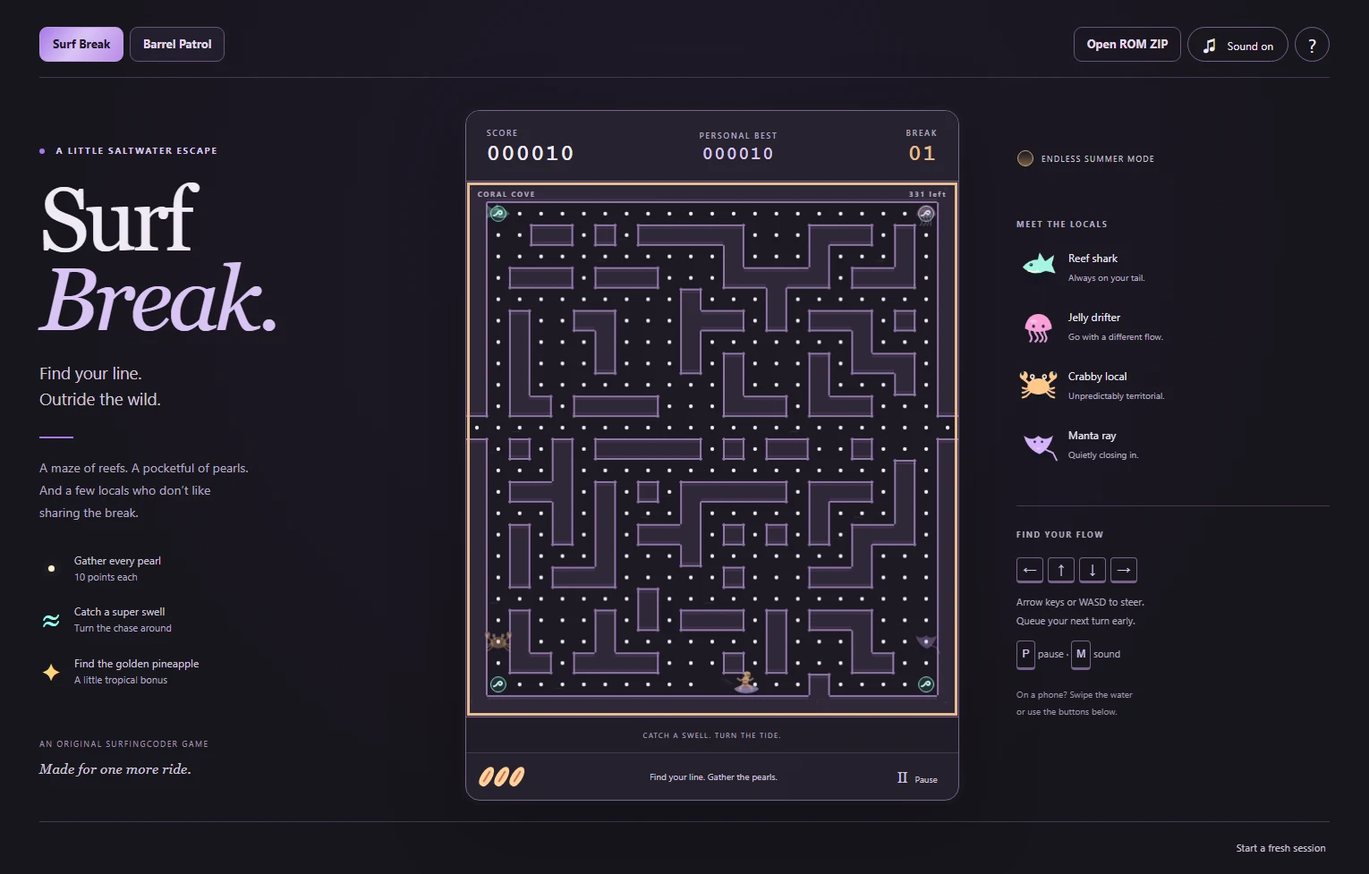
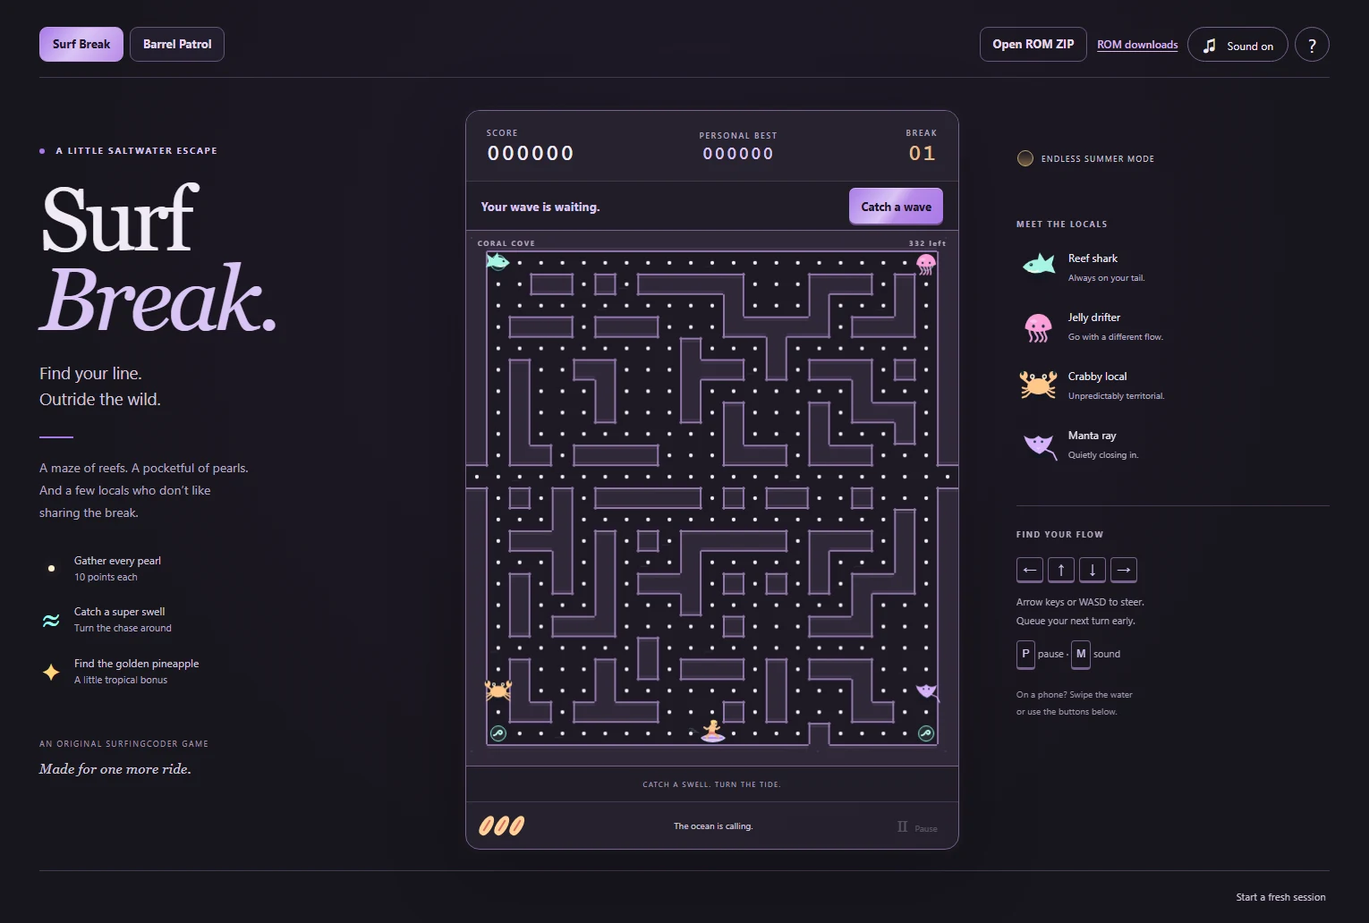
Keep Surf Break’s maze visible before the ride

diff --git a/surf-break/style.css b/surf-break/style.css
@@ -1,19 +1,48 @@
 :root{color-scheme:dark;font-family:Arial,Helvetica,sans-serif;color:#f0eaf6;background:#18161e;font-synthesis:none;--mint:#d9c4f5;--muted:#b5a9c2;--gold:#e7bd8b}
-*{box-sizing:border-box}body{margin:0;min-height:100vh;background:radial-gradient(ellipse at 50% 30%,#39244940,transparent 65%),#18161e}button,a{-webkit-tap-highlight-color:transparent}button{font:inherit;cursor:pointer}button:focus-visible,a:focus-visible,canvas:focus-visible{outline:3px solid #e7bd8b;outline-offset:4px}button{touch-action:manipulation}a{color:inherit;text-decoration:none}.shell{max-width:1530px;margin:auto;padding:25px 44px 18px}.icon-button{background:transparent;border:1px solid #79618e;border-radius:50%;height:39px;width:39px;color:#f0eaf6;font-size:21px}#sound{border-radius:30px;width:auto;padding:0 16px;font-size:20px}.icon-button span{font-size:12px;margin-left:7px;vertical-align:2px}.game-layout{display:grid;grid-template-columns:minmax(190px,1fr) minmax(0,clamp(310px,calc(92dvh - 279px),552px)) minmax(185px,.85fr);gap:clamp(25px,4.2vw,70px);align-items:start;margin:29px auto 0}.intro{padding-top:36px}.eyebrow{font-size:10px;font-weight:bold;letter-spacing:1.7px;color:#d9c4f5;line-height:1.8}.eyebrow>span{display:inline-block;width:6px;height:6px;background:#a879e8;border-radius:50%;margin-right:8px}h1{font-family:Georgia,'Times New Roman',serif;font-size:clamp(65px,6.6vw,100px);font-weight:400;line-height:.89;letter-spacing:-5px;margin:24px 0 23px}h1 em{font-weight:400;color:var(--mint)}.tagline{font-size:19px;line-height:1.55;letter-spacing:-.25px;color:#d0c4da;margin:0}.intro-rule{width:38px;height:2px;background:#a879e8;margin:27px 0 20px}.intro-copy{font-size:14px;line-height:1.8;color:var(--muted);max-width:240px}.legend{display:grid;gap:20px;margin-top:32px}.legend>div{display:flex;align-items:center;gap:13px;font-size:12px;line-height:1.5;color:#d0c4da}.legend small{display:block;font-size:11px;color:#b5a9c2;margin-top:2px}.legend-dot{width:26px;flex-shrink:0;text-align:center}.legend-dot.pearl:before{content:'';display:block;width:7px;height:7px;border-radius:50%;background:#fff0cb;box-shadow:0 0 13px #ffe4a344;margin:auto}.legend-dot.swell{font-family:Georgia,serif;color:#95fff0;font-size:36px;line-height:20px}.legend-dot.fruit{font-size:27px;color:#ffd47b}.credit{margin-top:52px;color:#a296ae;font-size:9px;letter-spacing:1.4px;line-height:1.9}.credit span{display:block;letter-spacing:.3px;font-family:Georgia,serif;font-style:italic;font-size:15px;color:#d0c4da;margin-top:6px}.cabinet{width:100%;min-width:0;border:1px solid #79618e;border-radius:16px;overflow:hidden;background:#27222f;box-shadow:0 25px 85px #0004,0 0 0 5px #211d2880}.scorebar{display:flex;justify-content:space-between;align-items:center;padding:18px 23px 17px;background:#27222f;gap:10px}.scorebar>div{min-width:75px}.scorebar span{display:block;font-size:9px;letter-spacing:1.6px;color:#b5a9c2;font-weight:600}.scorebar strong{font-size:25px;font-family:'Courier New',monospace;letter-spacing:1.5px;font-weight:600;display:block;margin-top:6px;line-height:1}.scorebar .best{text-align:center}.scorebar .best strong{color:#d9c4f5;font-size:20px}.scorebar .level{text-align:right;min-width:40px}.scorebar .level strong{color:#e7bd8b}.ocean-frame{position:relative;border-block:1px solid #79618e;background:#1d1924}#ocean{display:block;width:100%;height:auto;aspect-ratio:23 / 25;touch-action:none;outline-offset:-4px!important}.scene-label{position:absolute;left:13px;right:13px;top:8px;display:flex;justify-content:space-between;pointer-events:none;color:#b5a9c2;font-size:8px;letter-spacing:1.6px;font-weight:bold}.overlay{position:absolute;inset:0;display:flex;align-items:center;justify-content:center;background:#18161e8c;backdrop-filter:blur(2px);z-index:2}.overlay[hidden]{display:none}.overlay-card{width:85%;max-width:370px;text-align:center;padding:25px 20px 29px;background:linear-gradient(145deg,#302739f5,#24202cfa);border:1px solid #79618eaa;border-radius:18px;box-shadow:0 20px 70px #09070d88}.wave-mark{color:#d9c4f5;font-size:72px;line-height:35px;font-family:Georgia,serif;transform:rotate(-8deg);margin:7px 0 22px}.overlay-card>p:first-of-type{font-size:9px;letter-spacing:2.2px;color:#d9c4f5;font-weight:bold}.overlay h2{font-family:Georgia,serif;font-size:49px;font-weight:400;line-height:1.05;letter-spacing:-1.5px;margin:20px 0;color:#f0eaf6}.overlay-card>p:nth-of-type(2){font-size:13px;line-height:1.85;color:#d0c4da;margin-bottom:24px}.play-button{border:0;background:#d9c4f5;color:#1d1427;border-radius:7px;font-size:14px;font-weight:700;padding:15px 26px;box-shadow:0 4px 0 #8662a7;transition:transform .15s,background .15s}.play-button:hover{background:#eddcff;transform:translateY(-1px)}.play-button span{font-size:11px;margin-left:16px}.overlay-card>span{display:block;font-size:8px;letter-spacing:1.4px;color:#b5a9c2;margin-top:24px}.statusbar{display:flex;align-items:center;justify-content:space-between;gap:8px;padding:13px 17px;min-height:52px}.lives{display:flex;gap:5px;min-width:60px}.board-life{width:12px;height:24px;display:block;background:#ffd198;border-radius:55% 55% 45% 45%;transform:rotate(32deg);position:relative}.board-life:after{content:'';position:absolute;left:5px;top:5px;bottom:5px;width:2px;background:#d46c5e}.board-life.lost{opacity:.15}.status{font-size:10px;color:#d0c4da;text-align:center}.pause-button{border:0;background:none;color:#d0c4da;font-size:18px;white-space:nowrap}.pause-button span{font-size:10px;margin-left:3px}.pause-button:disabled{opacity:.3;cursor:default}.power-strip{position:absolute;left:14px;right:14px;bottom:8px;display:flex;align-items:center;gap:10px;padding:9px 12px;border:1px solid #8af4e070;border-radius:5px;background:#27222fe8;color:#acffdf;z-index:1;font-size:9px;letter-spacing:1px}.power-strip[hidden]{display:none}.power-strip>div{height:4px;flex:1;background:#44394f;overflow:hidden;border-radius:3px}.power-strip i{display:block;height:100%;background:#bdf5ba;transition:width .1s linear}.power-strip strong{font-size:12px;min-width:18px}.ride-notes{padding-top:37px}.session-tag{font-size:9px;letter-spacing:1.2px;color:#d0c4da;display:flex;align-items:center;gap:9px}.sun{height:18px;width:18px;border:1px solid #bfa86f;border-radius:50%;background:linear-gradient(0deg,#d4a96a80,transparent)}.locals{margin-top:50px}.section-label{font-size:9px;font-weight:bold;letter-spacing:1.6px;color:#b5a9c2;display:block;margin-bottom:20px}.local{display:flex;align-items:center;gap:9px;margin-bottom:19px}.portrait{width:49px;height:44px;flex-shrink:0}.local strong{font-size:12px;font-weight:400;color:#f0eaf6}.local p{font-size:10px;color:#b5a9c2;margin:6px 0}.controls-note{margin-top:44px;border-top:1px solid #44394f;padding-top:25px}.controls-note p{font-size:11px;line-height:1.9;color:#b5a9c2}.keycaps{display:flex;gap:5px}kbd{font-family:Arial,sans-serif;display:inline-block;border:1px solid #79618e;border-bottom-width:3px;border-radius:4px;min-width:21px;padding:3px 5px;text-align:center;color:#d9c4f5;font-size:12px}.keycaps kbd{font-size:15px;width:30px;height:29px}.controls-note .small-note{font-size:10px;color:#a296ae;margin-top:18px}.session-footer{display:flex;justify-content:flex-end;align-items:center;margin-top:23px;border-top:1px solid #44394f;padding-top:17px;color:#b5a9c2;font-size:8px;letter-spacing:1.5px}.text-button{background:none;border:0;color:#d0c4da;font-size:11px;padding:4px;letter-spacing:.2px}.text-button:hover{color:#d9c4f5}.touch-controls{display:none;justify-content:center;align-items:center;gap:13px;padding:14px;border-top:1px solid #44394f;touch-action:none}.touch-controls>div{display:flex;gap:8px}.touch-controls button{height:44px;width:52px;border:1px solid #79618e;border-radius:9px;background:#302839;color:#f0eaf6;font-size:24px}.touch-controls button:active{background:#352b43}dialog{max-width:450px;width:calc(100% - 36px);background:#211d28;color:#d0c4da;border:1px solid #79618e;border-radius:16px;padding:32px;box-shadow:0 20px 90px #0008}dialog::backdrop{background:#120e19d9;backdrop-filter:blur(5px)}dialog h2{font:38px Georgia,serif;color:#f0eaf6;margin:14px 0}dialog p{font-size:14px;line-height:1.8}dialog .play-button{margin-top:10px}#close-help{position:absolute;right:13px;top:9px;font-size:27px;background:none;border:0;color:#d9c4f5}
+*{box-sizing:border-box}body{margin:0;min-height:100vh;background:radial-gradient(ellipse at 50% 30%,#39244940,transparent 65%),#18161e}button,a{-webkit-tap-highlight-color:transparent}button{font:inherit;cursor:pointer}button:focus-visible,a:focus-visible,canvas:focus-visible{outline:3px solid #e7bd8b;outline-offset:4px}button{touch-action:manipulation}a{color:inherit;text-decoration:none}.shell{max-width:1530px;margin:auto;padding:25px 44px 18px}.icon-button{background:transparent;border:1px solid #79618e;border-radius:50%;height:39px;width:39px;color:#f0eaf6;font-size:21px}#sound{border-radius:30px;width:auto;padding:0 16px;font-size:20px}.icon-button span{font-size:12px;margin-left:7px;vertical-align:2px}.game-layout{display:grid;grid-template-columns:minmax(190px,1fr) minmax(0,clamp(310px,calc(92dvh - 279px),552px)) minmax(185px,.85fr);gap:clamp(25px,4.2vw,70px);align-items:start;margin:29px auto 0}.intro{padding-top:36px}.eyebrow{font-size:10px;font-weight:bold;letter-spacing:1.7px;color:#d9c4f5;line-height:1.8}.eyebrow>span{display:inline-block;width:6px;height:6px;background:#a879e8;border-radius:50%;margin-right:8px}h1{font-family:Georgia,'Times New Roman',serif;font-size:clamp(65px,6.6vw,100px);font-weight:400;line-height:.89;letter-spacing:-5px;margin:24px 0 23px}h1 em{font-weight:400;color:var(--mint)}.tagline{font-size:19px;line-height:1.55;letter-spacing:-.25px;color:#d0c4da;margin:0}.intro-rule{width:38px;height:2px;background:#a879e8;margin:27px 0 20px}.intro-copy{font-size:14px;line-height:1.8;color:var(--muted);max-width:240px}.legend{display:grid;gap:20px;margin-top:32px}.legend>div{display:flex;align-items:center;gap:13px;font-size:12px;line-height:1.5;color:#d0c4da}.legend small{display:block;font-size:11px;color:#b5a9c2;margin-top:2px}.legend-dot{width:26px;flex-shrink:0;text-align:center}.legend-dot.pearl:before{content:'';display:block;width:7px;height:7px;border-radius:50%;background:#fff0cb;box-shadow:0 0 13px #ffe4a344;margin:auto}.legend-dot.swell{font-family:Georgia,serif;color:#95fff0;font-size:36px;line-height:20px}.legend-dot.fruit{font-size:27px;color:#ffd47b}.credit{margin-top:52px;color:#a296ae;font-size:9px;letter-spacing:1.4px;line-height:1.9}.credit span{display:block;letter-spacing:.3px;font-family:Georgia,serif;font-style:italic;font-size:15px;color:#d0c4da;margin-top:6px}.cabinet{width:100%;min-width:0;border:1px solid #79618e;border-radius:16px;overflow:hidden;background:#27222f;box-shadow:0 25px 85px #0004,0 0 0 5px #211d2880}.scorebar{display:flex;justify-content:space-between;align-items:center;padding:18px 23px 17px;background:#27222f;gap:10px}.scorebar>div{min-width:75px}.scorebar span{display:block;font-size:9px;letter-spacing:1.6px;color:#b5a9c2;font-weight:600}.scorebar strong{font-size:25px;font-family:'Courier New',monospace;letter-spacing:1.5px;font-weight:600;display:block;margin-top:6px;line-height:1}.scorebar .best{text-align:center}.scorebar .best strong{color:#d9c4f5;font-size:20px}.scorebar .level{text-align:right;min-width:40px}.scorebar .level strong{color:#e7bd8b}.ocean-frame{position:relative;border-block:1px solid #79618e;background:#1d1924}#ocean{display:block;width:100%;height:auto;aspect-ratio:23 / 25;touch-action:none;outline-offset:-4px!important}.scene-label{position:absolute;left:13px;right:13px;top:8px;display:flex;justify-content:space-between;pointer-events:none;color:#b5a9c2;font-size:8px;letter-spacing:1.6px;font-weight:bold}.play-button{border:0;background:#d9c4f5;color:#1d1427;border-radius:7px;font-size:14px;font-weight:700;padding:15px 26px;box-shadow:0 4px 0 #8662a7;transition:transform .15s,background .15s}.play-button:hover{background:#eddcff;transform:translateY(-1px)}.statusbar{display:flex;align-items:center;justify-content:space-between;gap:8px;padding:13px 17px;min-height:52px}.lives{display:flex;gap:5px;min-width:60px}.board-life{width:12px;height:24px;display:block;background:#ffd198;border-radius:55% 55% 45% 45%;transform:rotate(32deg);position:relative}.board-life:after{content:'';position:absolute;left:5px;top:5px;bottom:5px;width:2px;background:#d46c5e}.board-life.lost{opacity:.15}.status{font-size:10px;color:#d0c4da;text-align:center}.pause-button{border:0;background:none;color:#d0c4da;font-size:18px;white-space:nowrap}.pause-button span{font-size:10px;margin-left:3px}.pause-button:disabled{opacity:.3;cursor:default}.power-strip{position:absolute;left:14px;right:14px;bottom:8px;display:flex;align-items:center;gap:10px;padding:9px 12px;border:1px solid #8af4e070;border-radius:5px;background:#27222fe8;color:#acffdf;z-index:1;font-size:9px;letter-spacing:1px}.power-strip[hidden]{display:none}.power-strip>div{height:4px;flex:1;background:#44394f;overflow:hidden;border-radius:3px}.power-strip i{display:block;height:100%;background:#bdf5ba;transition:width .1s linear}.power-strip strong{font-size:12px;min-width:18px}.ride-notes{padding-top:37px}.session-tag{font-size:9px;letter-spacing:1.2px;color:#d0c4da;display:flex;align-items:center;gap:9px}.sun{height:18px;width:18px;border:1px solid #bfa86f;border-radius:50%;background:linear-gradient(0deg,#d4a96a80,transparent)}.locals{margin-top:50px}.section-label{font-size:9px;font-weight:bold;letter-spacing:1.6px;color:#b5a9c2;display:block;margin-bottom:20px}.local{display:flex;align-items:center;gap:9px;margin-bottom:19px}.portrait{width:49px;height:44px;flex-shrink:0}.local strong{font-size:12px;font-weight:400;color:#f0eaf6}.local p{font-size:10px;color:#b5a9c2;margin:6px 0}.controls-note{margin-top:44px;border-top:1px solid #44394f;padding-top:25px}.controls-note p{font-size:11px;line-height:1.9;color:#b5a9c2}.keycaps{display:flex;gap:5px}kbd{font-family:Arial,sans-serif;display:inline-block;border:1px solid #79618e;border-bottom-width:3px;border-radius:4px;min-width:21px;padding:3px 5px;text-align:center;color:#d9c4f5;font-size:12px}.keycaps kbd{font-size:15px;width:30px;height:29px}.controls-note .small-note{font-size:10px;color:#a296ae;margin-top:18px}.session-footer{display:flex;justify-content:flex-end;align-items:center;margin-top:23px;border-top:1px solid #44394f;padding-top:17px;color:#b5a9c2;font-size:8px;letter-spacing:1.5px}.text-button{background:none;border:0;color:#d0c4da;font-size:11px;padding:4px;letter-spacing:.2px}.text-button:hover{color:#d9c4f5}.touch-controls{display:none;justify-content:center;align-items:center;gap:13px;padding:14px;border-top:1px solid #44394f;touch-action:none}.touch-controls>div{display:flex;gap:8px}.touch-controls button{height:44px;width:52px;border:1px solid #79618e;border-radius:9px;background:#302839;color:#f0eaf6;font-size:24px}.touch-controls button:active{background:#352b43}dialog{max-width:450px;width:calc(100% - 36px);background:#211d28;color:#d0c4da;border:1px solid #79618e;border-radius:16px;padding:32px;box-shadow:0 20px 90px #0008}dialog::backdrop{background:#120e19d9;backdrop-filter:blur(5px)}dialog h2{font:38px Georgia,serif;color:#f0eaf6;margin:14px 0}dialog p{font-size:14px;line-height:1.8}dialog .play-button{margin-top:10px}#close-help{position:absolute;right:13px;top:9px;font-size:27px;background:none;border:0;color:#d9c4f5}
 @media(min-width:1400px){.shell{padding-top:30px}.game-layout{margin-top:36px}}
 @media(max-width:1100px){.shell{padding:20px 25px}.game-layout{grid-template-columns:minmax(175px,1fr) minmax(0,clamp(310px,calc(92dvh - 279px),510px));gap:30px;max-width:860px}.ride-notes{display:none}.intro{padding-top:22px}h1{font-size:80px}.credit{margin-top:35px}.legend{gap:18px}}
-@media(max-width:700px){.shell{padding:13px 14px}.icon-button{height:34px;width:34px}#sound{padding:0 11px}.icon-button span{font-size:10px}.game-layout{display:block;margin-top:13px;max-width:480px}.intro{display:flex;align-items:baseline;justify-content:space-between;padding:0 3px 13px}.intro .eyebrow,.intro .intro-rule,.intro-copy,.legend,.credit{display:none}h1{font-size:34px;letter-spacing:-1.3px;line-height:1;margin:0}h1 br{display:none}h1 em{margin-left:5px}.tagline{font-size:10px;line-height:1.5;text-align:right}.tagline br{display:none}.cabinet{border-radius:12px}.scorebar{padding:12px 17px}.scorebar strong{font-size:22px}.scorebar .best strong{font-size:18px}.scorebar span{font-size:8px}.touch-controls{display:flex}.overlay h2{font-size:43px}.overlay-card{padding:23px 13px}.overlay-card>p:nth-of-type(2){font-size:12px}.wave-mark{font-size:60px;margin-bottom:18px}.statusbar{padding:11px 13px}.scene-label{font-size:7px}.status{font-size:9px}.session-footer{margin:16px auto 0;max-width:480px;padding-top:12px;font-size:7px;letter-spacing:.8px}.text-button{font-size:10px}}
+@media(max-width:700px){.shell{padding:13px 14px}.icon-button{height:34px;width:34px}#sound{padding:0 11px}.icon-button span{font-size:10px}.game-layout{display:block;margin-top:13px;max-width:480px}.intro{display:flex;align-items:baseline;justify-content:space-between;padding:0 3px 13px}.intro .eyebrow,.intro .intro-rule,.intro-copy,.legend,.credit{display:none}h1{font-size:34px;letter-spacing:-1.3px;line-height:1;margin:0}h1 br{display:none}h1 em{margin-left:5px}.tagline{font-size:10px;line-height:1.5;text-align:right}.tagline br{display:none}.cabinet{border-radius:12px}.scorebar{padding:12px 17px}.scorebar strong{font-size:22px}.scorebar .best strong{font-size:18px}.scorebar span{font-size:8px}.touch-controls{display:flex}.statusbar{padding:11px 13px}.scene-label{font-size:7px}.status{font-size:9px}.session-footer{margin:16px auto 0;max-width:480px;padding-top:12px;font-size:7px;letter-spacing:.8px}.text-button{font-size:10px}}
 @media(pointer:coarse){.touch-controls{display:flex}}
 @media(prefers-reduced-motion:reduce){*{scroll-behavior:auto!important;transition:none!important}}
 
 /* SurfingCoder identity: same source artwork and Amethyst & Graphite tokens as surfingcoder.com. */
 :root{font-family:"Segoe UI",system-ui,sans-serif;--page-bg:#18161e;--panel-bg:#27222f;--surface:#211d28;--surface-raised:#302839;--ink:#f0eaf6;--muted:#b5a9c2;--text-secondary:#d0c4da;--accent:#a879e8;--accent-light:#d9c4f5;--accent-ink:#1d1427;--border:#44394f;--border-strong:#79618e;--metal:linear-gradient(125deg,#a879e8 0%,#d9c4f5 43%,#b98be8 57%,#a879e8 100%);--panel-metal:linear-gradient(145deg,#302739 0%,#27222f 38%,#24202c 100%)}
 
-.cabinet,.overlay-card{background:var(--panel-metal)}.scorebar{background:var(--panel-bg)}.play-button{background:var(--metal);color:var(--accent-ink);box-shadow:inset 0 1px 0 #f6eaff73,0 4px 0 #705188}.play-button:hover{background:linear-gradient(125deg,#bd96ef,#e7d9fa,#cfa9f4)}.play-button:disabled{opacity:.7;cursor:default}.scorebar .best strong{color:var(--accent-light)}
+.cabinet{background:var(--panel-metal)}.scorebar{background:var(--panel-bg)}.play-button{background:var(--metal);color:var(--accent-ink);box-shadow:inset 0 1px 0 #f6eaff73,0 4px 0 #705188}.play-button:hover{background:linear-gradient(125deg,#bd96ef,#e7d9fa,#cfa9f4)}.play-button:disabled{opacity:.7;cursor:default}.scorebar .best strong{color:var(--accent-light)}
 ::selection{background:#775298;color:#fff}
 @media(max-width:700px){#sound{padding:0 9px}}
-.countdown-number{display:block;font-size:110px;line-height:1;color:var(--accent-light);font-variant-numeric:tabular-nums}.is-countdown .wave-mark{font-size:42px;margin:0 0 14px}.is-countdown .overlay-card{padding-top:25px}.is-countdown .play-button{box-shadow:none;background:transparent;color:var(--accent-light);border:1px solid var(--border-strong)}
+
 
 /* Reserve a HUD row outside the canvas, so power never obscures a channel. */
 .power-slot{height:40px;padding:5px 12px;display:grid;align-items:center;border-bottom:1px solid var(--border);background:var(--surface)}.power-strip{position:static;inset:auto;grid-area:1/1;width:100%;margin:0;padding:6px 10px;min-height:28px;border-radius:4px;z-index:auto}.power-idle{grid-area:1/1;text-align:center;color:var(--muted);font-size:8px;letter-spacing:1.3px}.power-slot:has(.power-strip:not([hidden])) .power-idle{visibility:hidden}
 .session-tag{padding:7px 10px;margin-left:-10px;border:1px solid transparent;border-radius:20px;transition:background .2s,color .2s,box-shadow .2s}.session-tag.is-active{color:#f5eaff;background:#5b39785c;border-color:#bd96ef;box-shadow:0 0 17px #b577ed50,inset 0 0 12px #a879e825;text-shadow:0 0 9px #d9c4f580;animation:summer-glow 1.8s ease-in-out infinite}.session-tag.is-active .sun{border-color:#dcffd0;background:#c4f4b2;box-shadow:0 0 12px #baffb3}@keyframes summer-glow{50%{box-shadow:0 0 25px #bd96ef80,inset 0 0 16px #a879e83b}}@media(prefers-reduced-motion:reduce){.session-tag.is-active{animation:none}}
+
+.ride-panel {
+  display: grid;
+  grid-template-columns: minmax(0, 1fr) auto;
+  align-items: center;
+  gap: 8px;
+  min-height: 55px;
+  padding: 6px 17px;
+  border-top: 1px solid var(--border);
+  background: var(--surface);
+}
+#ride-status {
+  margin: 0;
+  color: var(--accent-light);
+  font-size: .84rem;
+  font-weight: 650;
+  font-variant-numeric: tabular-nums;
+}
+.ride-panel .play-button {
+  min-height: 40px;
+  padding: 7px 13px;
+  font-size: .8rem;
+  white-space: nowrap;
+  box-shadow: inset 0 1px 0 #f6eaff73, 0 2px 0 #705188;
+}
+@media (max-width: 700px) {
+  .ride-panel { min-height: 54px; padding-inline: 10px }
+  #ride-status { font-size: .76rem }
+}

diff --git a/index.html b/index.html
@@ -1,5 +1,5 @@
 <!doctype html>
-<html lang="en"><head><meta charset="utf-8"><meta name="viewport" content="width=device-width,initial-scale=1,viewport-fit=cover"><meta name="theme-color" content="#18161e"><meta name="description" content="Catch a wave through the reef. An original surfing maze chase from SurfingCoder."><title>Surf Break · SurfingCoder Arcade</title><link rel="stylesheet" href="./surf-break/style.css?v=20261120-surf-break">
+<html lang="en"><head><meta charset="utf-8"><meta name="viewport" content="width=device-width,initial-scale=1,viewport-fit=cover"><meta name="theme-color" content="#18161e"><meta name="description" content="Catch a wave through the reef. An original surfing maze chase from SurfingCoder."><title>Surf Break · SurfingCoder Arcade</title><link rel="stylesheet" href="./surf-break/style.css?v=20261120-clear-playfield">
 <link rel="stylesheet" href="./arcade-lobby.css?v=20261120-wordmark">
 </head>
 <body>
@@ -20,7 +20,15 @@
   <section id="game" class="game-layout" aria-label="Surf Break game">
     <aside class="intro"><div class="eyebrow"><span></span> A LITTLE SALTWATER ESCAPE</div><h1>Surf<br><em>Break.</em></h1><p class="tagline">Find your line.<br> Outride the wild.</p><div class="intro-rule"></div><p class="intro-copy">A maze of reefs. A pocketful of pearls. And a few locals who don’t like sharing the break.</p><div class="legend"><div><span class="legend-dot pearl"></span><span>Gather every pearl<small>10 points each</small></span></div><div><span class="legend-dot swell">≈</span><span>Catch a super swell<small>Turn the chase around</small></span></div><div><span class="legend-dot fruit">✦</span><span>Find the golden pineapple<small>A little tropical bonus</small></span></div></div><div class="credit">AN ORIGINAL SURFINGCODER GAME<span>Made for one more ride.</span></div></aside>
     <div class="cabinet"><div class="scorebar"><div><span>SCORE</span><strong id="score">000000</strong></div><div class="best"><span>PERSONAL BEST</span><strong id="best">000000</strong></div><div class="level"><span>BREAK</span><strong id="level">01</strong></div></div>
-      <div class="ocean-frame"><canvas id="ocean" width="552" height="600" tabindex="0" aria-label="Surfing maze. Use arrow keys or W A S D to steer." aria-describedby="instructions"></canvas><div class="scene-label"><span id="lagoon">CORAL COVE</span><span id="remaining">0 pearls left</span></div><div id="overlay" class="overlay"><div class="overlay-card"><div class="wave-mark" aria-hidden="true">≈</div><p id="overlay-kicker">THE TIDE IS RIGHT</p><h2 id="overlay-title">Your wave<br>is waiting.</h2><p id="overlay-description">Collect the pearls. Dodge the sea life.<br>Ride a super swell to chase them back.</p><button id="play" class="play-button">Catch a wave <span>▶</span></button><span id="overlay-hint">ARROW KEYS / WASD TO STEER</span></div></div></div><div class="power-slot"><span class="power-idle">CATCH A SWELL. TURN THE TIDE.</span><div class="power-strip" id="power-strip" hidden><span>SUPER SWELL</span><div><i id="power-meter"></i></div><strong id="power-seconds">8s</strong></div></div>
+      <div class="ride-panel">
+        <p id="ride-status" role="status">Your wave is waiting.</p>
+        <button type="button" id="play" class="play-button">Catch a wave</button>
+      </div>
+      <div class="ocean-frame">
+        <canvas id="ocean" width="552" height="600" tabindex="0" aria-label="Surfing maze. Use arrow keys or W A S D to steer." aria-describedby="instructions"></canvas>
+        <div class="scene-label"><span id="lagoon">CORAL COVE</span><span id="remaining">0 pearls left</span></div>
+      </div>
+      <div class="power-slot"><span class="power-idle">CATCH A SWELL. TURN THE TIDE.</span><div class="power-strip" id="power-strip" hidden><span>SUPER SWELL</span><div><i id="power-meter"></i></div><strong id="power-seconds">8s</strong></div></div>
       <div class="statusbar"><div class="lives" id="lives" aria-label="3 boards left"></div><div class="status" id="status" role="status" aria-live="polite">The ocean is calling.</div><button id="pause" class="pause-button" disabled title="Pause (P)">Ⅱ <span>Pause</span></button></div>
       <div class="touch-controls" aria-label="Touch steering controls"><button data-dir="left" aria-label="Steer left">←</button><div><button data-dir="up" aria-label="Steer up">↑</button><button data-dir="down" aria-label="Steer down">↓</button></div><button data-dir="right" aria-label="Steer right">→</button></div>
     </div>
@@ -42,6 +50,6 @@
   </p>
   <div id="rom-screen"></div>
 </dialog>
-<script type="module" src="./surf-break/app.mjs?v=20261120-surf-break"></script>
+<script type="module" src="./surf-break/app.mjs?v=20261120-clear-playfield"></script>
 <script type="module" src="./rom-launcher.js?v=20261120-surf-break"></script>
 </body></html>
